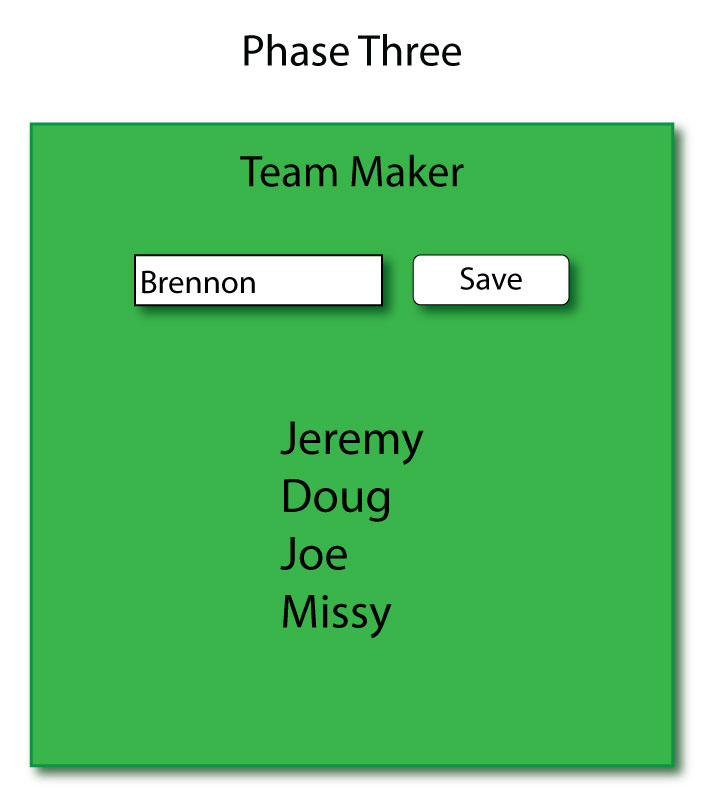
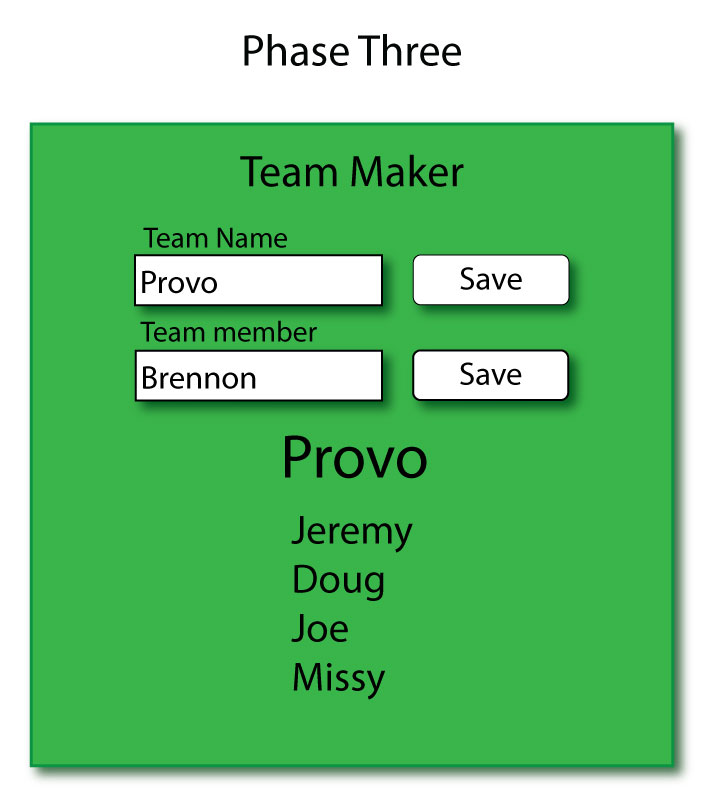
finished one

Changed region(s): [[0.1792, 0.272, 0.8364, 0.8766]]

diff --git a/State-and-Props/02-Team-Maker/README.md b/State-and-Props/02-Team-Maker/README.md
@@ -1,0 +1,111 @@
+# Team Maker
+
+This app aims to improve your skills in using a .map loop to create JSX elements and using setState to add members to an array on state. Eventually we will move our code into component to clean up our code and make it more maintainable.
+
+The end result will hopefully look some thing like this
+
+<p align="center">
+  <img src="https://github.com/Rasbandit/React-Drills/blob/master/images/Team Maker/phase-7.jpg" width="375" height="420">
+</p>
+
+
+## Starting Point
+#### Creating the React App
+
+With your terminal opened inside of this folder, `02-Team-Maker` run the following command into your terminal to create the project.
+
+`create-react-app Team-Maker`
+
+This will give you a blank slate to create your react project. You will want to start in the `App.js` file.
+
+## Phase One
+#### Using an Input to Change State
+
+<p align="center">
+  <img src="https://github.com/Rasbandit/React-Drills/blob/master/images/Team Maker/phase-1.jpg" width="375" height="420">
+</p>
+
+In our app we want to give the user the ability to type a name into an input field and save them to a team. To start lets begin with creating a function that will update our state and save a title for our app.
+
+You will need to create a constructor function in your `App.js` and create your initial state. The initial state should have a property of title, and any string value you like. Display the current value of title from the state on the browser inside your JSX section.
+
+You will also need to create a function that will run every time the user types in the input box. This can be done using an on onChange on the input JSX tag.
+
+If everything is working correctly when you type in input field it should live update the title at the top of the page.
+
+#### Phrases to Google for help
+- React onChange
+- React Forms
+
+#### Projects with example Code
+- Toy Problem Showcase
+
+## Phase Two
+#### Update Title Only when Button is pressed
+
+<p align="center">
+  <img src="https://github.com/Rasbandit/React-Drills/blob/master/images/Team Maker/phase-2.jpg" width="375" height="420">
+</p>
+
+In this step we will change our app so that the title will only update when we press the save button. Create a button in the JSX section.
+
+We will need to create a second property on our state that will keep track of what is in the input, but we need to keep it separate from the value storing the current title. The reason for this is so we don't update the value for team until we type in the whole name. We will be doing the same pattern for adding team members, as we don't want to add a team member each time a key is pressed, that would give us an array full of half finished names.
+
+You may also want to make it so when the user clicks the save button it clears the input field and sets the value on state for storing the input to an empty string.
+
+#### Phrases to Google for help
+- React onClick
+- React setState Example onClick
+
+#### Projects with example Code
+- Employee Manager (Employee Editor Component)
+
+
+## Phase Three
+#### Only Title only when Button is pressed
+
+<p align="center">
+  <img src="https://github.com/Rasbandit/React-Drills/blob/master/images/Team Maker/phase-3.jpg" width="375" height="420">
+</p>
+
+Change the title on the top of the app so that it is static and not reflecting what is on the state, but move the value from state to below the input boxes so we can still show the name of our team.
+
+You you will need to create a new input field and button to handle adding team members to our team list. This also means you will need a place to keep track of this info. On state create an array to hold the members of our team. when the user clicks the save Team Member button it will add their name to the array of team members as a string.
+
+Using array.map inside of the render method, but outside of the return, loop through the team members array and make a JSX tag for each member of the array. Put the variable you made to store each team member down in your return.
+
+#### Phrases to Google for help
+- React map array
+- React setState array example onClick
+
+#### Projects with example Code
+- Employee Manager (Employee List Component)
+
+
+## Phase Four
+#### Creating a component and passing props
+
+<p align="center">
+  <img src="https://github.com/Rasbandit/React-Drills/blob/master/images/Team Maker/phase-4.jpg" width="375" height="420">
+</p>
+
+In this phase lets convert our team title and list into a component. This makes it easy to repeat our code for when we want to add a second or even third team.
+
+You will need to create a new component and transfer over your map function in your render method as well as any JSX for styling purposes. When you implement your component into App.js you will need to pass down two props, the team title and the team list. Remember you can access your props inside your component by using `this.props.THE_NAME_OF_THE_PROP`.
+
+You will want to use props to set your initial state so that each component will have its own unique state. This also means you will need to use the `componentWillReceiveProps` life cycle method to update state when the props updates.
+
+#### Phrases to Google for help
+- React pass props to child
+- React creating a component
+- React componentWillReceiveProps
+
+#### Projects with example Code
+- Theme Changer
+
+## Phase Five
+#### 
+
+<p align="center">
+  <img src="https://github.com/Rasbandit/React-Drills/blob/master/images/Team Maker/phase-4.jpg" width="375" height="420">
+</p>

diff --git a/State-and-Props/01-Clicker/README.md b/State-and-Props/01-Clicker/README.md
@@ -6,16 +6,16 @@ we will be using setState to modify the state of a component and eventually crea
 The end project will look a little something like this.
 
 <p align="center">
-  <img src="https://github.com/Rasbandit/React-Drills/blob/master/images/Clicker/phase-1.jpg" width="350" height="425">
+  <img src="https://github.com/Rasbandit/React-Drills/blob/master/images/Clicker/phase-5.jpg" width="350" height="425">
 </p>
 
-## Phase Zero
-#### Starting your project
-While inside of this folder run the following command into your terminal to create the project.
+## Starting Point
+#### Creating the React App
+With your terminal opened inside of this folder, `01-Clicker` run the following command into your terminal to create the project.
 
 `create-react-app clicker-app`
 
-This will give you a blank slate to create your react project.
+This will give you a blank slate to create your react project. You will want to start in the `App.js` file.
 
 ## Phase One
 #### Connecting a button to JavaScript
@@ -55,7 +55,7 @@ Change the logic of your function that console logged when the button clicked. W
 If everything is working you should see the number on the screen increment every time you click the button.
 
 #### Phrases to Google for help
-- React this.setState example
+- React setState example
 
 ## Phase Three
 #### Making Another Button
